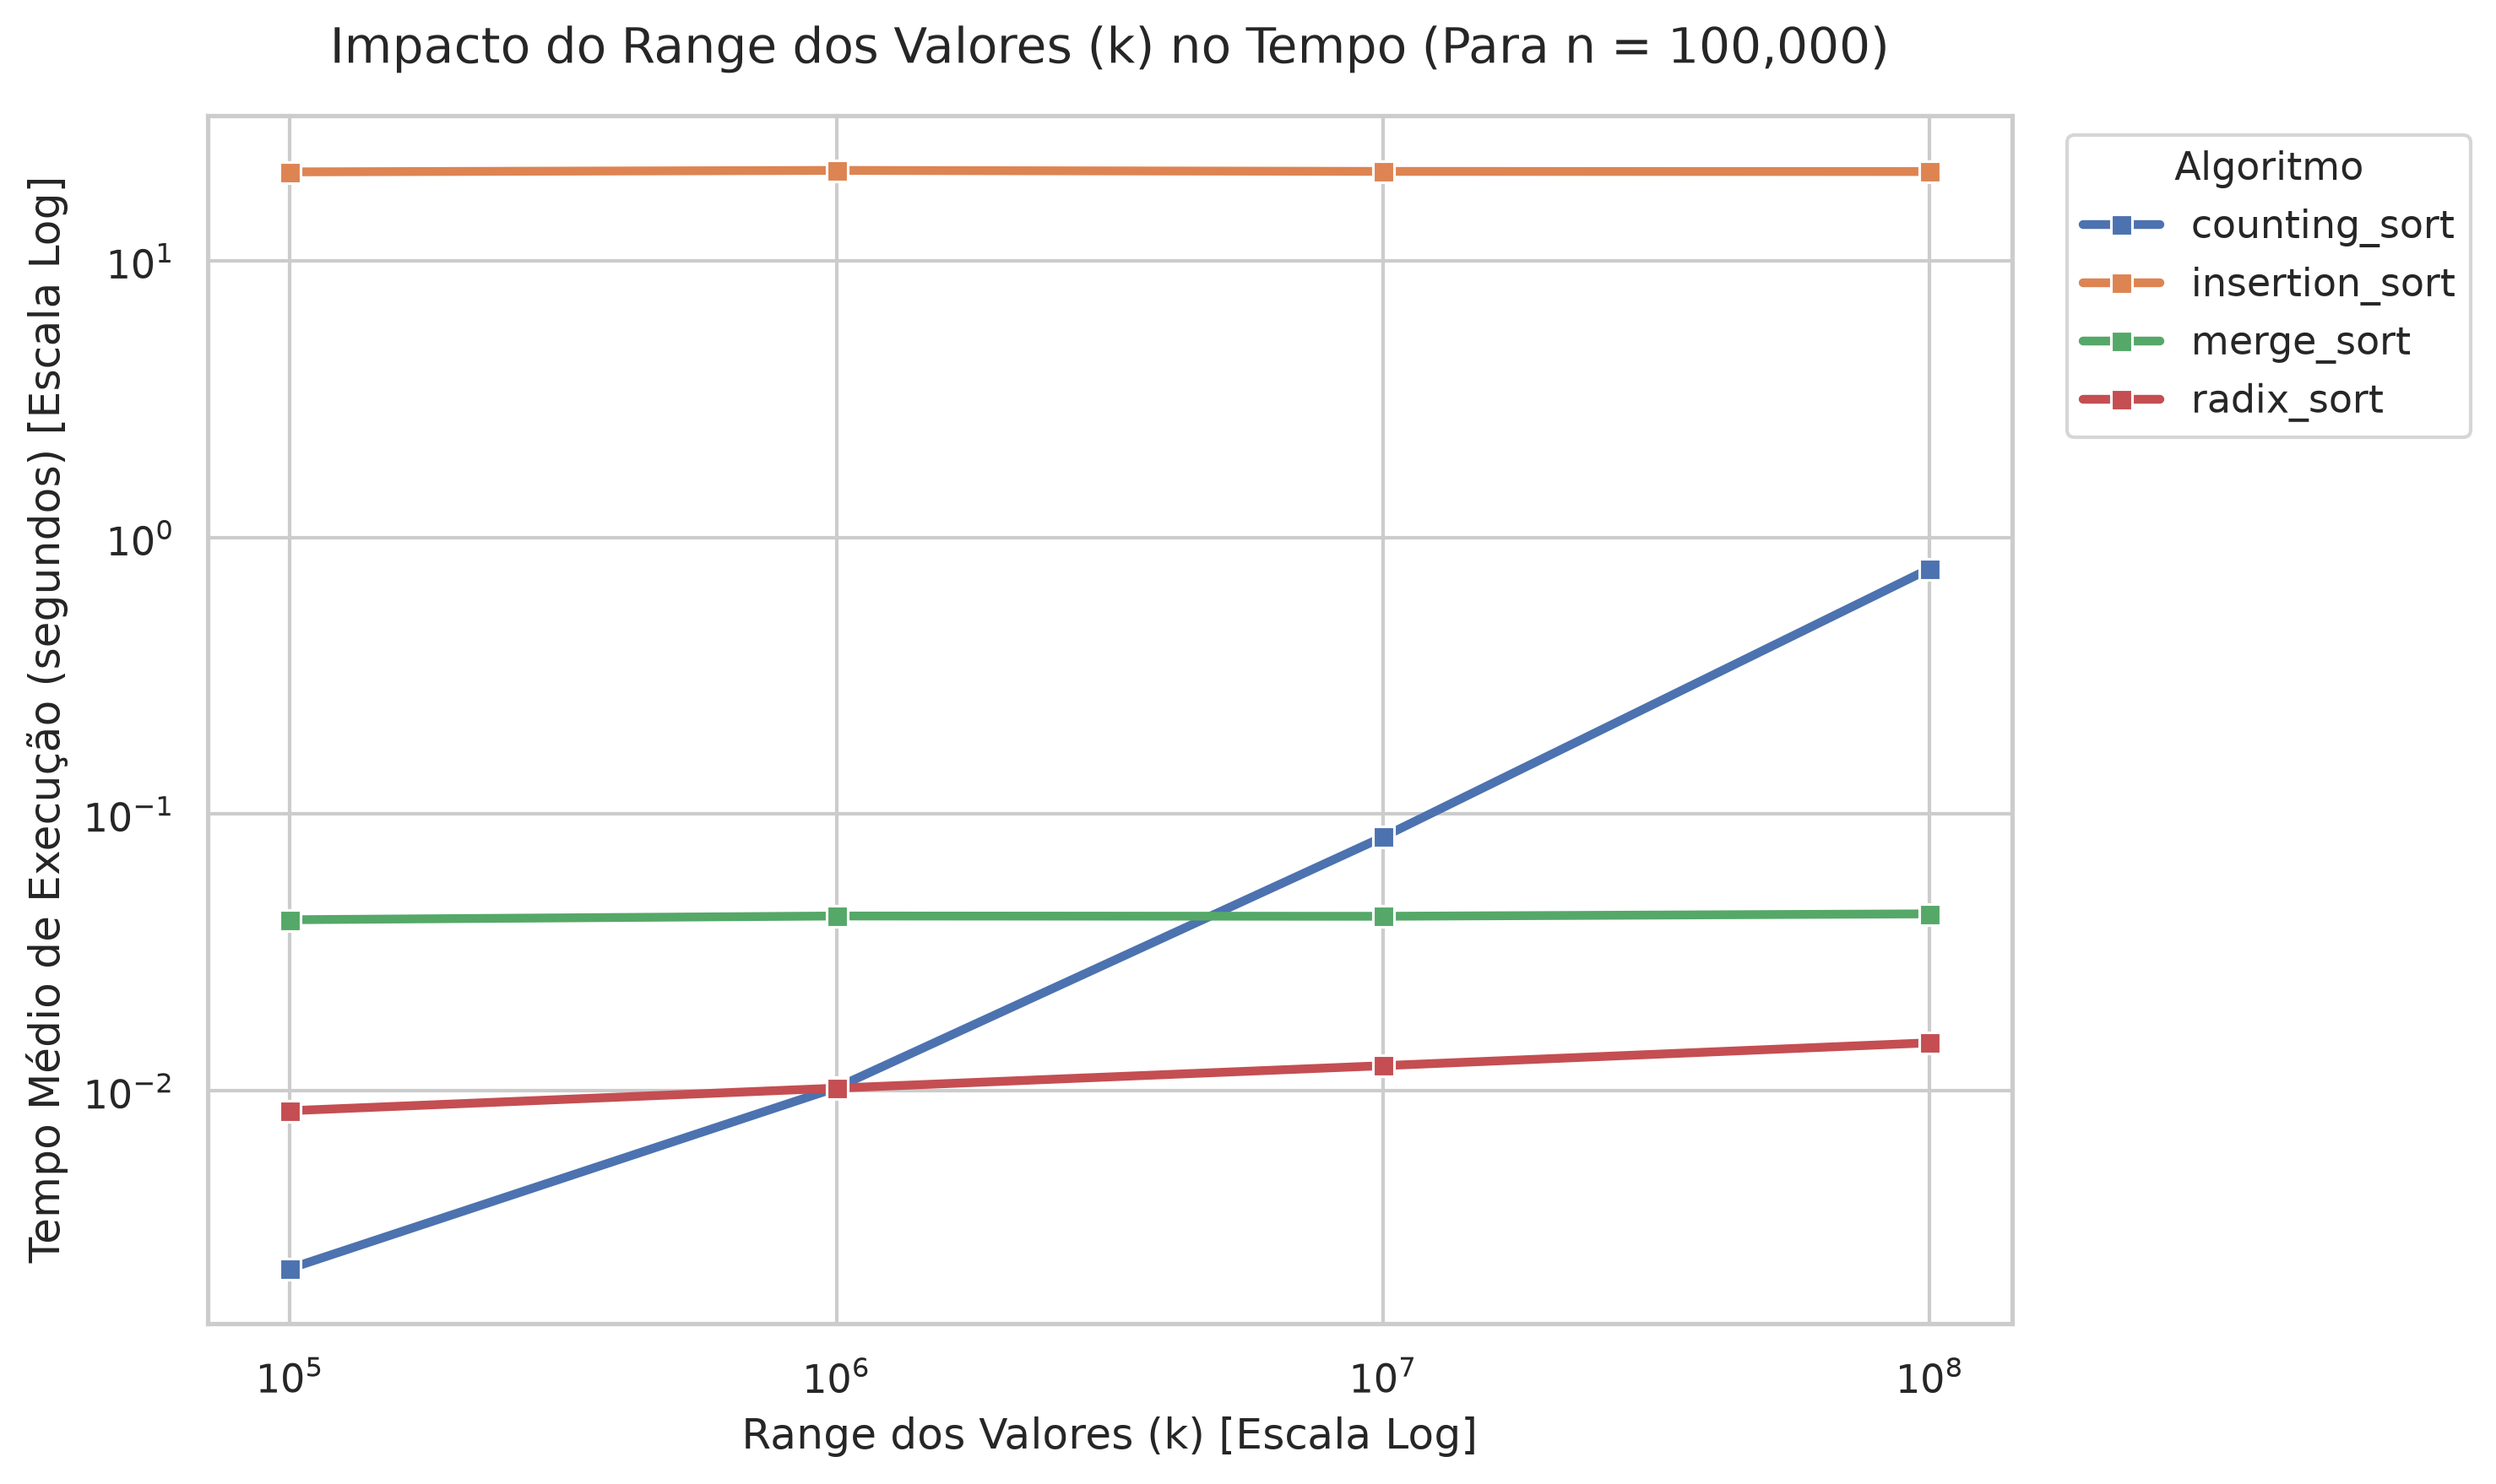
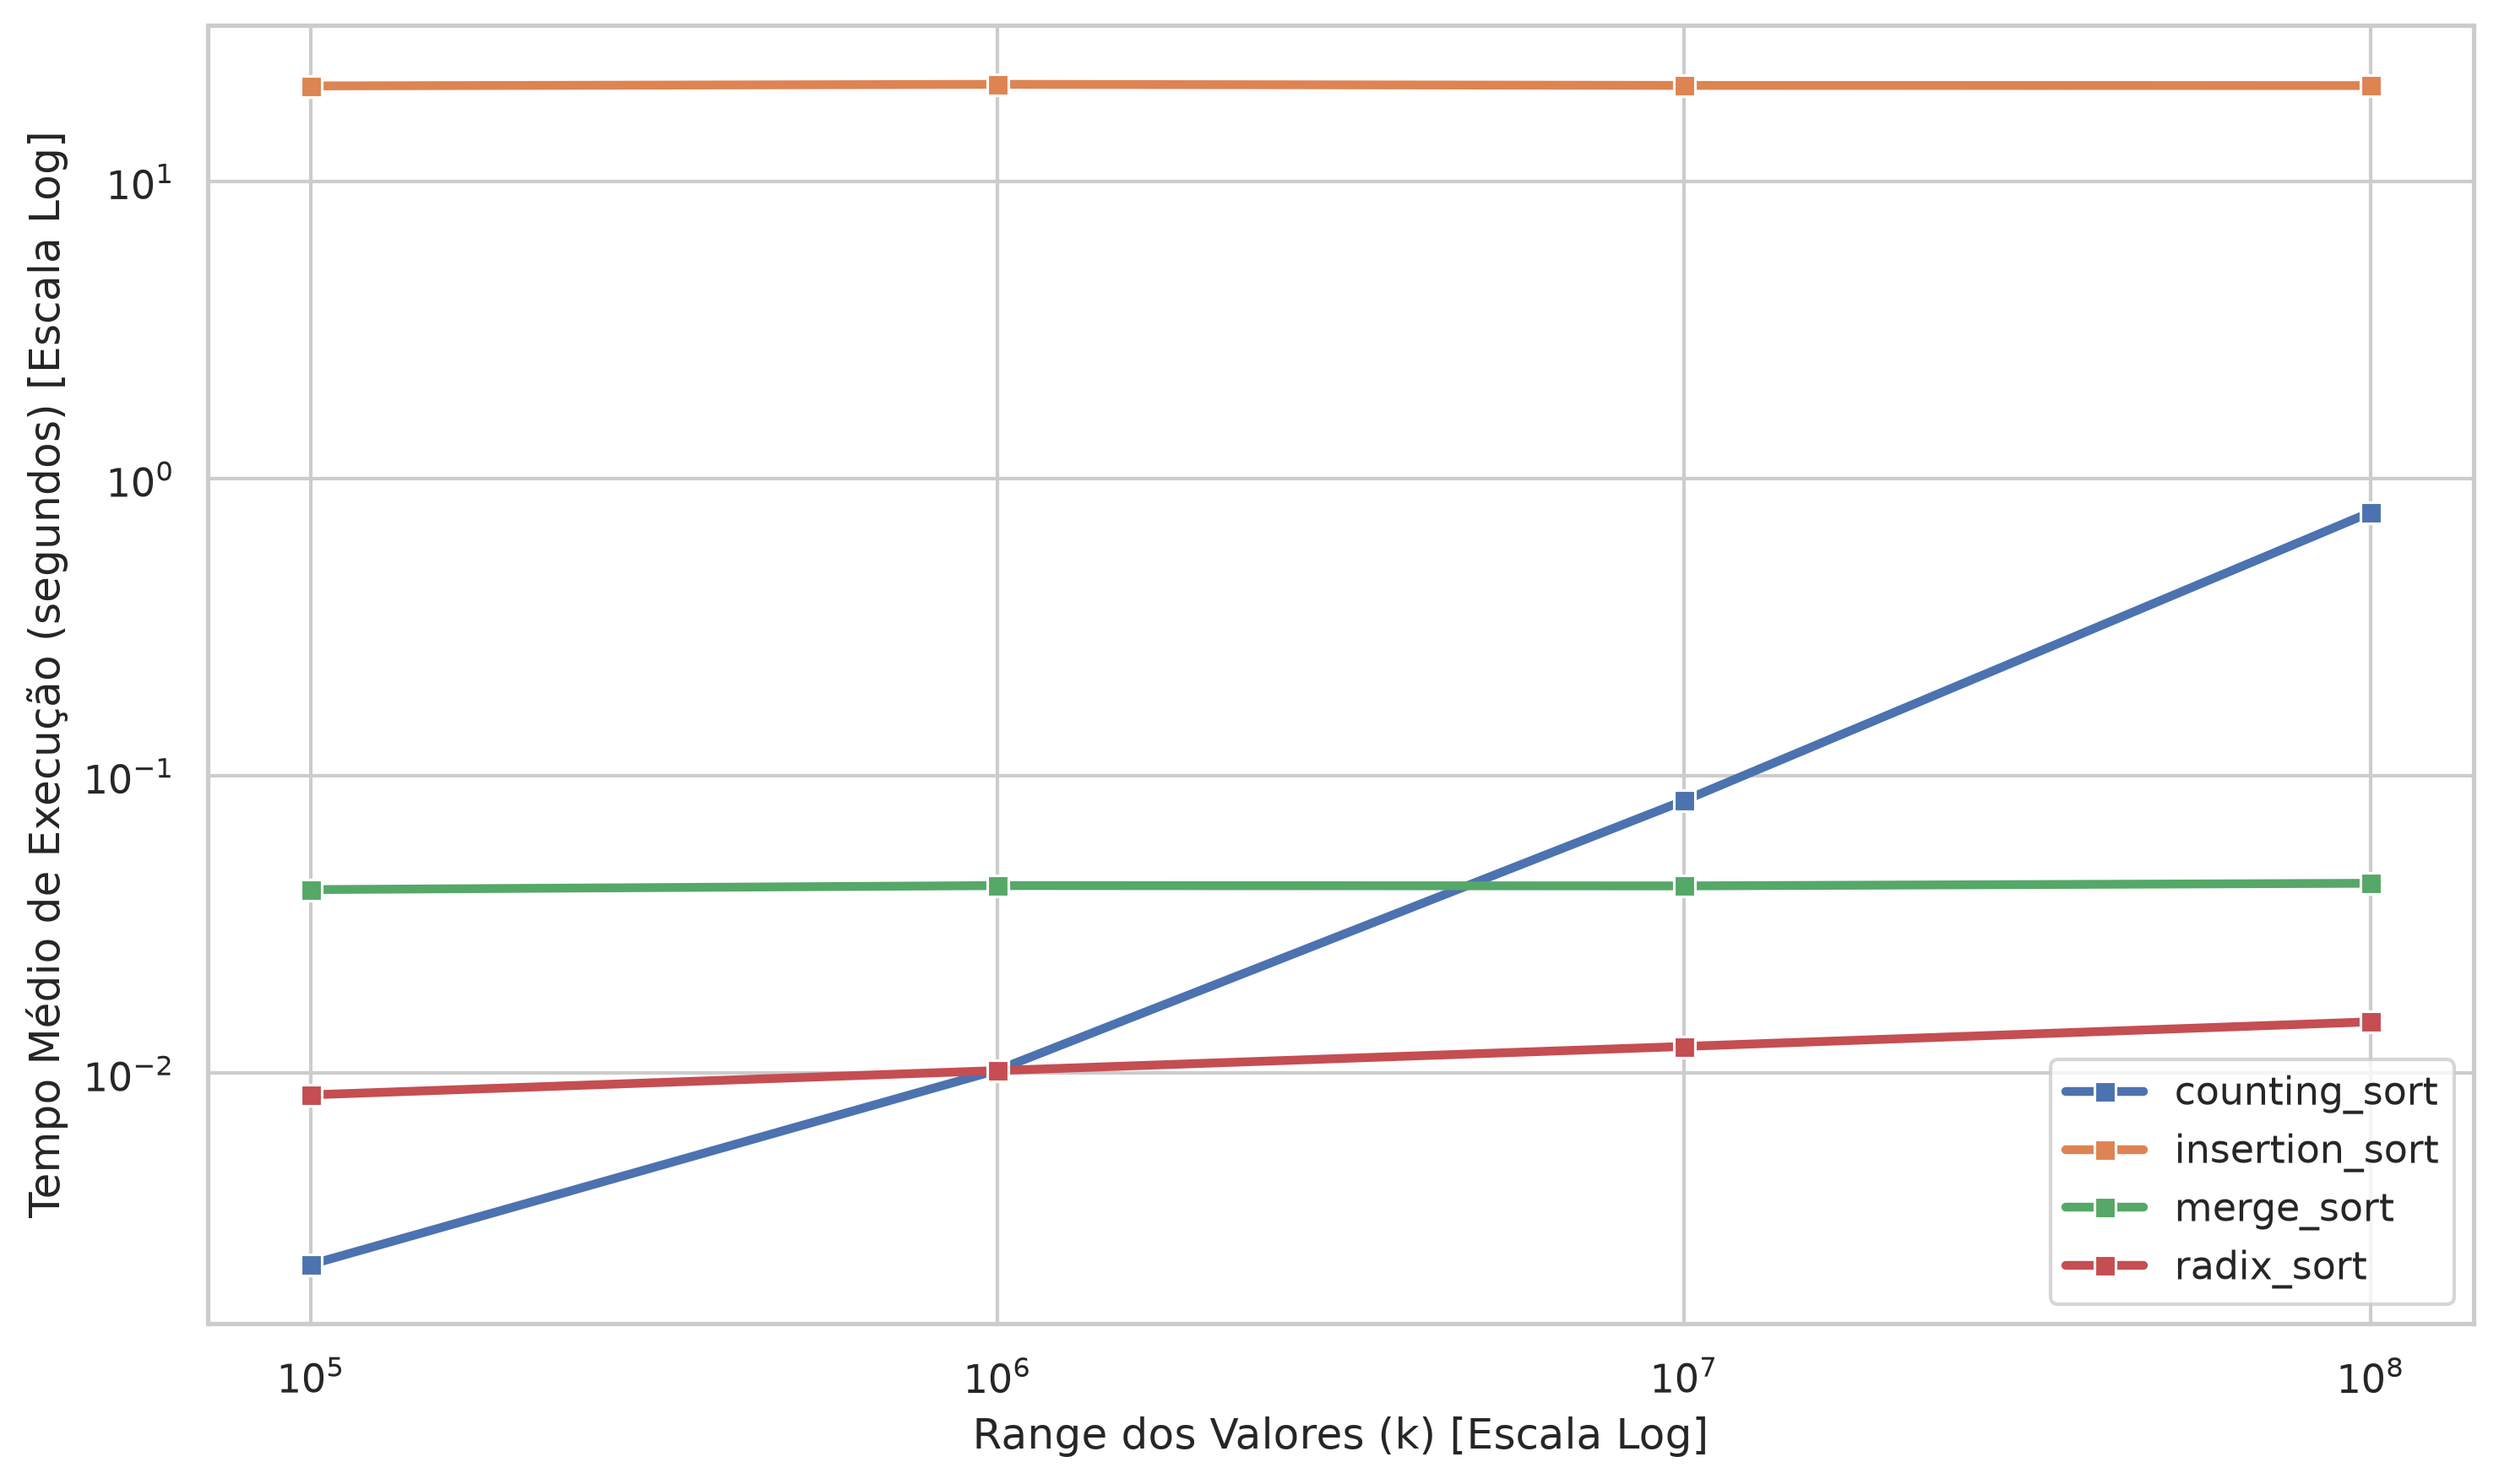
Remove title of graphs

diff --git a/src/generated_graphs/genereted_graphs.py b/src/generated_graphs/genereted_graphs.py
@@ -48,21 +48,9 @@ if __name__ == '__main__':
 
   plt.yscale('log')
   plt.xscale('log')
-  plt.title(
-      'Desempenho dos Algoritmos de Ordenação por Tamanho (n = range)',
-      fontsize=14,
-      pad=15,
-  )
   plt.xlabel('Tamanho do Array (n) [Escala Log]', fontsize=12)
   plt.ylabel('Tempo Médio de Execução (segundos) [Escala Log]', fontsize=12)
-
-  plt.legend(
-      title='Algoritmo',
-      title_fontsize='11',
-      bbox_to_anchor=(1.02, 1),
-      loc='upper left',
-  )
-
+  plt.legend(title_fontsize='11')
   plt.tight_layout()
   plt.savefig(
       path_save_graph / 'comparativo_crescimento.png',
@@ -90,21 +78,9 @@ if __name__ == '__main__':
 
     plt.yscale('log')
     plt.xscale('log')
-    plt.title(
-        f'Impacto do Range dos Valores (k) no Tempo (Para n = {fixed_n:,})',
-        fontsize=14,
-        pad=15,
-    )
     plt.xlabel('Range dos Valores (k) [Escala Log]', fontsize=12)
     plt.ylabel('Tempo Médio de Execução (segundos) [Escala Log]', fontsize=12)
-
-    plt.legend(
-        title='Algoritmo',
-        title_fontsize='11',
-        bbox_to_anchor=(1.02, 1),
-        loc='upper left',
-    )
-
+    plt.legend(title_fontsize='11')
     plt.tight_layout()
     filename = f'impacto_range_n_{fixed_n}.png'
     plt.savefig(
@@ -131,11 +107,6 @@ if __name__ == '__main__':
       cbar_kws={'label': 'Tempo (s) - Escala Log'},
   )
 
-  plt.title(
-      'Mapa de Calor: Tempo de Execução do Counting Sort (n vs Range)',
-      fontsize=14,
-      pad=15,
-  )
   plt.xlabel('Tamanho do Array (n)', fontsize=12)
   plt.ylabel('Range dos Valores (k)', fontsize=12)
   plt.tight_layout()
@@ -163,28 +134,16 @@ if __name__ == '__main__':
       palette=['#fc8d62']
   )
 
-  plt.title(
-      'Forma da Função de Tempo: Insertion Sort',
-      fontsize=14,
-      pad=15,
-  )
   plt.xlabel('Tamanho do Array (n)', fontsize=12)
   plt.ylabel('Tempo de Execução (segundos)', fontsize=12)
   
-  # Aplica notação científica baseada em potências no eixo X
   ax = plt.gca()
   formatter = ticker.ScalarFormatter(useMathText=True)
   formatter.set_scientific(True)
   formatter.set_powerlimits((0, 0))
   ax.xaxis.set_major_formatter(formatter)
 
-  plt.legend(
-      title='Algoritmo',
-      title_fontsize='11',
-      #bbox_to_anchor=(1.02, 1),
-      #loc='upper left',
-  )
-
+  plt.legend(title_fontsize='11')
   plt.tight_layout()
   plt.savefig(
       path_save_graph / 'escala_real_insertion_sort.png',
@@ -210,31 +169,51 @@ if __name__ == '__main__':
       linewidth=2.5,
   )
 
-  plt.title(
-      'Forma da Função de Tempo: Merge, Radix e Counting Sort',
-      fontsize=14,
-      pad=15,
-  )
   plt.xlabel('Tamanho do Array (n)', fontsize=12)
   plt.ylabel('Tempo de Execução (segundos)', fontsize=12)
 
-  # Aplica notação científica baseada em potências no eixo X
   ax = plt.gca()
   formatter = ticker.ScalarFormatter(useMathText=True)
   formatter.set_scientific(True)
   formatter.set_powerlimits((0, 0))
   ax.xaxis.set_major_formatter(formatter)
 
-  plt.legend(
-      title='Algoritmo',
-      title_fontsize='11',
-      #bbox_to_anchor=(1.02, 1),
-      #loc='upper left',
-  )
-
+  plt.legend(title_fontsize='11')
   plt.tight_layout()
   plt.savefig(
       path_save_graph / 'escala_real_nlog_lineares.png',
+      dpi=300,
+      bbox_inches='tight',
+  )
+  plt.show()
+  plt.close()
+
+  # ==========================================
+  # GRÁFICO 6: Média Geral por n (Desconsiderando os diferentes ranges) [Log-Log]
+  # ==========================================
+  plt.figure(figsize=(10, 6))
+  
+  # Agrupa valores de acordo com o n
+  df_mean_by_n = df.groupby(['n', 'algorithm'])['time'].mean().reset_index()
+
+  sns.lineplot(
+      data=df_mean_by_n,
+      x='n',
+      y='time',
+      hue='algorithm',
+      marker='o',
+      linewidth=2.5,
+  )
+
+  plt.yscale('log')
+  plt.xscale('log')
+  plt.xlabel('Tamanho do Array (n) [Escala Log - Média de Todos os Ranges]', fontsize=12)
+  plt.ylabel('Tempo Médio Geral de Execução (segundos) [Escala Log]', fontsize=12)
+  
+  plt.legend(title='Algoritmo', title_fontsize='11')
+  plt.tight_layout()
+  plt.savefig(
+      path_save_graph / 'comparativo_media_geral_n.png',
       dpi=300,
       bbox_inches='tight',
   )
